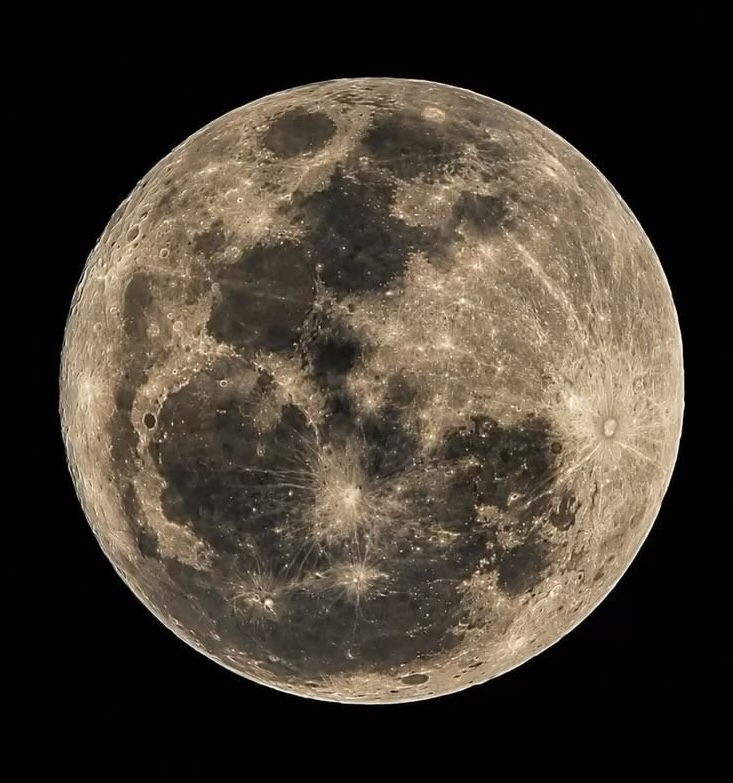
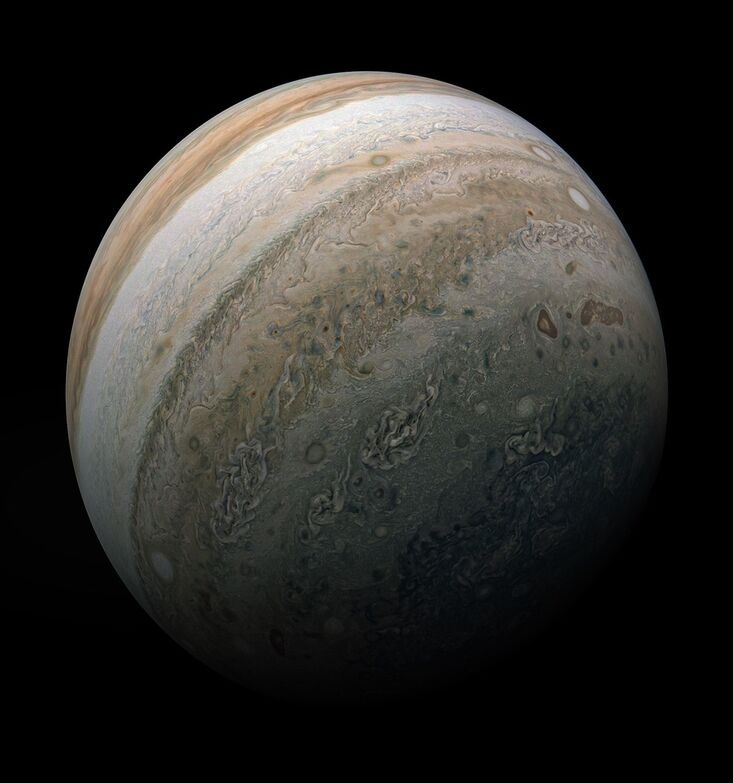
fix: added correct images to explore page and changed file types on explore.html

diff --git a/pages/explore.html b/pages/explore.html
@@ -133,7 +133,7 @@
                     <li>
                         <article class="card type-planet">
                             <div class="card__media">
-                                <img src="../assets/images/mars.jpg" alt="" width="733" height="783" loading="lazy">
+                                <img src="../assets/images/mars.webp" alt="" width="733" height="783" loading="lazy">
                             </div>
                             <div class="card__body">
                                 <p class="category">Planet</p>
@@ -167,7 +167,7 @@
                     <li>
                         <article class="card type-planet">
                             <div class="card__media">
-                                <img src="../assets/images/saturn.jpg" alt="" width="733" height="783" loading="lazy">
+                                <img src="../assets/images/saturn.png" alt="" width="733" height="783" loading="lazy">
                             </div>
                             <div class="card__body">
                                 <p class="category">Planet</p>
@@ -184,7 +184,7 @@
                     <li>
                         <article class="card type-galaxy">
                             <div class="card__media">
-                                <img src="../assets/images/galaxy.jpg" alt="" width="733" height="783" loading="lazy">
+                                <img src="../assets/images/andromeda.png" alt="" width="733" height="783" loading="lazy">
                             </div>
                             <div class="card__body">
                                 <p class="category">Galaxy</p>
